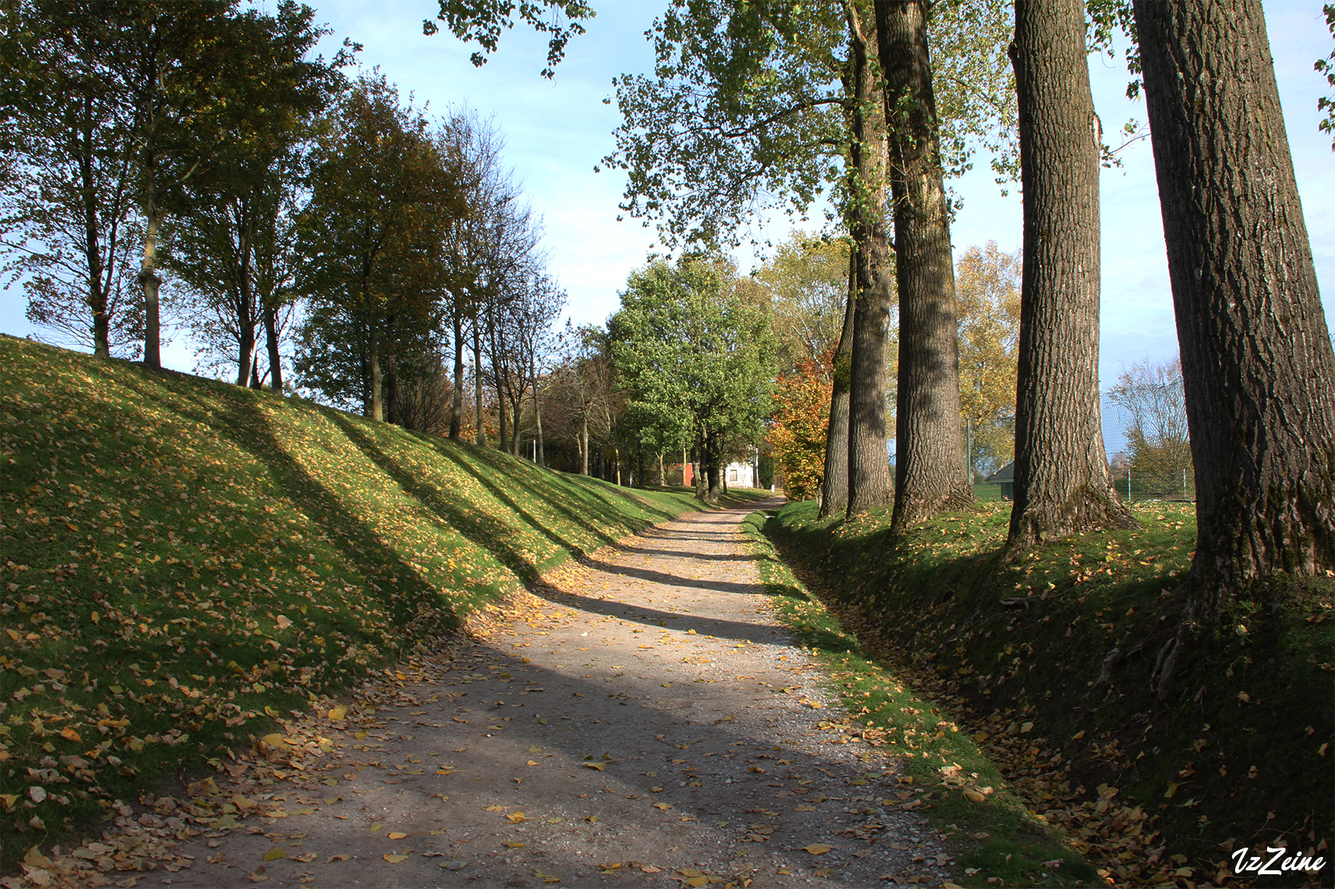
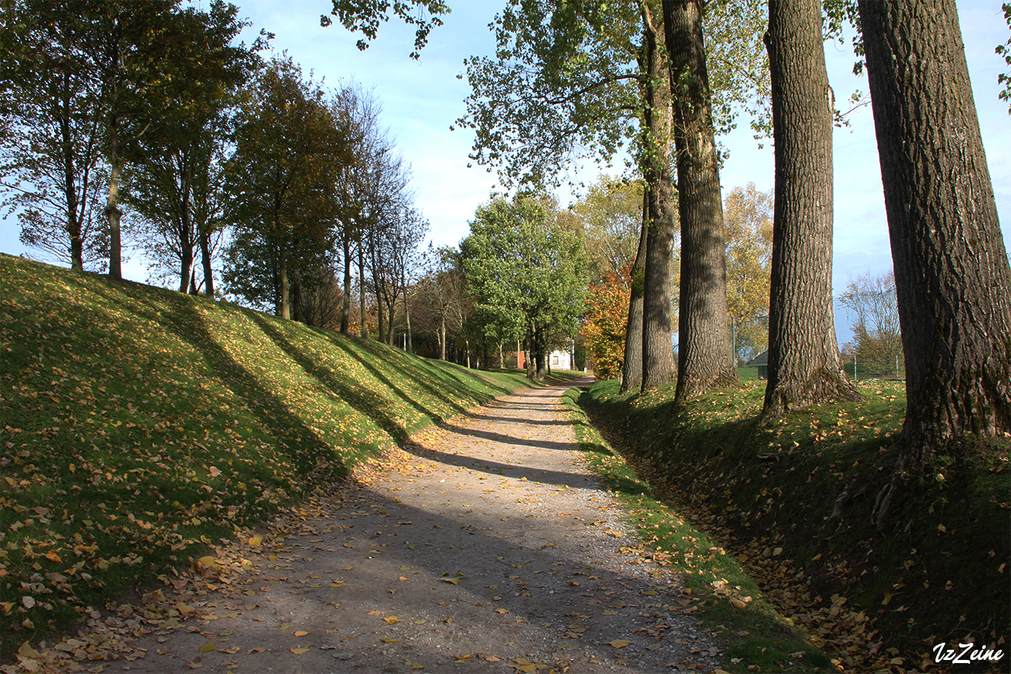
Amallys-MAJ-3.0.3
Ajout :
- Variables de couleurs dans le code CSS
- Photo de moi dans le section info

Correction :
- Faute dans l'annonce
- Photos trop lourdes (22Mo->15Mo)
- Grid section infos

Suppression :
- Dessins répétitifs

diff --git a/infos.html b/infos.html
@@ -38,7 +38,7 @@
           Ce site est encore en développement, il est donc susceptible d'être
           mis à jour régulièrement et d'avoir des bugs. Si vous remarquez
           quelconque problème (temps de chargement trop long, fonctionnalité
-          manquante, mauvais affichage, avis personnel, ect), vous pouvez aller
+          manquante, mauvais affichage, avis personnel, etc), vous pouvez aller
           dans l'onglet contact afin que je puisse y remédier. Merci de votre
           compréhension. Bonne visite!
         </p>
@@ -172,32 +172,39 @@
       />
     </div>
     <h1 class="Amallys__Nom">Informations</h1>
-    <section class="Section__Propos wrapper">
+    <section class="wrapper">
       <h2 id="Description" class="box1">Description</h2>
-      <div class="box2">
-        <p>
-          Je m'appelle Morgane Guerrero Fernandez, je suis étudiante à l'IAD
-          (Institut des Arts de Diffusion). J'ai commencé mon bachelier en
-          option multimédia en septembre 2019. Je suis actuellement en deuxième
-          année.
-        </p>
-        <p>Je propose ici mes services pour plusieurs types de travaux :</p>
-        <ul class="ListeDisc">
-          <li>Création de vos logos personnalisés et de bonne qualité</li>
-          <li>Vectorisation de vos logos déjà créés</li>
-          <li>Création de montage photos</li>
-          <li>Correction colorimétrique de photos</li>
-          <li>Création de courtes animations</li>
-          <li>Photographie (en apprentissage...)</li>
-        </ul>
-        <p>
-          Si vous voulez me joindre, vous pouvez vous rendre en bas de page où
-          vous trouverez mes informations.
-          <a href="#footer">(ou cliquez ici)</a>
-        </p>
+      <div class="box2 Section__Propos">
+        <img
+          class="Section__Propos-moi"
+          src="images/Moi/Moi.png"
+          alt="Photo de moi"
+        />
+        <div class="Section__Propos-text">
+          <p>
+            Je m'appelle Morgane Guerrero Fernandez, je suis étudiante à l'IAD
+            (Institut des Arts de Diffusion). J'ai commencé mon bachelier en
+            option multimédia en septembre 2019. Je suis actuellement en
+            deuxième année.
+          </p>
+          <p>Je propose ici mes services pour plusieurs types de travaux :</p>
+          <ul class="ListeDisc">
+            <li>Création de vos logos personnalisés et de bonne qualité</li>
+            <li>Vectorisation de vos logos déjà créés</li>
+            <li>Création de montage photos</li>
+            <li>Correction colorimétrique de photos</li>
+            <li>Création de courtes animations</li>
+            <li>Photographie (en apprentissage...)</li>
+          </ul>
+          <p>
+            Si vous voulez me joindre, vous pouvez vous rendre en bas de page où
+            vous trouverez mes informations.
+            <a href="#footer">(ou cliquez ici)</a>
+          </p>
+        </div>
       </div>
     </section>
-    <section class="Section__Propos wrapper">
+    <section class="wrapper">
       <h2 id="Parcours" class="box1">Parcours</h2>
       <div class="box2">
         <p>
@@ -281,8 +288,8 @@
         </ul>
       </div>
     </section>
-    <section class="Section__Propos wrapper"></section>
-    <section class="Section__Propos wrapper"></section>
+    <section class="wrapper"></section>
+    <section class="wrapper"></section>
     <!--FOOTER-->
     <footer id="footer">
       <div class="footer">

diff --git a/index.html b/index.html
@@ -38,7 +38,7 @@
           Ce site est encore en développement, il est donc susceptible d'être
           mis à jour régulièrement et d'avoir des bugs. Si vous remarquez
           quelconque problème (temps de chargement trop long, fonctionnalité
-          manquante, mauvais affichage, avis personnel, ect), vous pouvez aller
+          manquante, mauvais affichage, avis personnel, etc), vous pouvez aller
           dans l'onglet contact afin que je puisse y remédier. Merci de votre
           compréhension. Bonne visite!
         </p>
@@ -172,30 +172,36 @@
       />
     </div>
     <h1 class="Amallys__Nom">Amallys Creation</h1>
-    <section class="Section__Propos wrapper">
+    <section class="wrapper">
       <h2 id="Infos" class="box1">Infos</h2>
-      <div class="box2">
-        <p>
-          Je m'appelle Morgane Guerrero Fernandez, je suis étudiante à l'IAD
-          (Institut des Arts de Diffusion). J'ai commencé mon bachelier en
-          option multimédia en septembre 2019. Je suis actuellement en deuxième
-          année.
-        </p>
-        <p>Je propose ici mes services pour plusieurs types de travaux :</p>
-        <ul class="ListeDisc">
-          <li>Création de vos logos personnalisés et de bonne qualité</li>
-          <li>Vectorisation de vos logos déjà créés</li>
-          <li>Création de montage photos</li>
-          <li>Correction colorimétrique de photos</li>
-          <li>Création de courtes animations</li>
-          <li>Photographie (en apprentissage...)</li>
-        </ul>
-        <p>
-          Si vous voulez me joindre, vous pouvez vous rendre en bas de page où
-          vous trouverez mes informations.
-          <a href="#footer">(ou cliquez ici)</a>
-        </p>
-        <a class="EtPlus" href="infos.html">Et plus...</a>
+      <div class="box2 Section__Propos">
+        <img
+          class="Section__Propos-moi"
+          src="images/Moi/Moi.png"
+          alt="Photo de moi"
+        />
+        <div class="Section__Propos-text">
+          <p>
+            Je m'appelle Morgane Guerrero Fernandez, je suis étudiante à l'IAD
+            (Institut des Arts de Diffusion). J'ai commencé mon bachelier en
+            option multimédia en septembre 2019. Je suis actuellement en
+            deuxième année.
+          </p>
+          <p>Je propose ici mes services pour plusieurs types de travaux :</p>
+          <ul class="ListeDisc">
+            <li>Création de vos logos personnalisés et de bonne qualité</li>
+            <li>Vectorisation de vos logos déjà créés</li>
+            <li>Création de montage photos</li>
+            <li>Correction colorimétrique de photos</li>
+            <li>Création de courtes animations</li>
+            <li>Photographie (en apprentissage...)</li>
+          </ul>
+          <p>
+            Si vous voulez me joindre, vous pouvez vous rendre en bas de page où
+            vous trouverez mes informations.
+            <a href="#footer">(ou cliquez ici)</a>
+          </p>
+        </div>
       </div>
     </section>
     <section class="Section__Logos wrapper">

diff --git a/creations.html b/creations.html
@@ -38,7 +38,7 @@
           Ce site est encore en développement, il est donc susceptible d'être
           mis à jour régulièrement et d'avoir des bugs. Si vous remarquez
           quelconque problème (temps de chargement trop long, fonctionnalité
-          manquante, mauvais affichage, avis personnel, ect), vous pouvez aller
+          manquante, mauvais affichage, avis personnel, etc), vous pouvez aller
           dans l'onglet contact afin que je puisse y remédier. Merci de votre
           compréhension. Bonne visite!
         </p>
@@ -263,16 +263,13 @@
       <div class="box2">
         <ul class="Section__image--1-1">
           <li><img src="images/Dessins/Papiers/ChatTatoo.jpg" alt="" /></li>
-          <li><img src="images/Dessins/Papiers/CiseauxColle.jpg" alt="" /></li>
           <li><img src="images/Dessins/Papiers/CiseauxNoir.jpg" alt="" /></li>
-          <li><img src="images/Dessins/Papiers/CiseauxRouge.jpg" alt="" /></li>
           <li><img src="images/Dessins/Papiers/Couteau.jpg" alt="" /></li>
           <li><img src="images/Dessins/Papiers/Cranes.jpg" alt="" /></li>
+          <li><img src="images/Dessins/Papiers/CiseauxRouge.jpg" alt="" /></li>
           <li><img src="images/Dessins/Papiers/Femme.jpg" alt="" /></li>
           <li><img src="images/Dessins/Papiers/Muscles1.jpg" alt="" /></li>
-          <li><img src="images/Dessins/Papiers/Muscles2.jpg" alt="" /></li>
           <li><img src="images/Dessins/Papiers/RequinMur.jpg" alt="" /></li>
-          <li><img src="images/Dessins/Papiers/Tasse.jpg" alt="" /></li>
         </ul>
       </div>
     </section>

diff --git a/css/style.css b/css/style.css
@@ -3,10 +3,15 @@
 /*Ajouter les variables des couleurs utilisées dans le site*/
 
 :root {
+  /*couleurs du site*/
   --color-red: #ce414b;
   --color-blue: #000923;
   --color-White: #ffffff;
   --color-footer: #070b13;
+  /*couleurs des annonces*/
+  --color-important: #ef1111;
+  --color-moyen: #f7931e;
+  --color-bien: #009245;
 }
 
 /*------------------------------------------------------%Body%------------------------------------------------------*/
@@ -120,13 +125,13 @@ header {
 }
 
 .annonce--important {
-  border: solid red;
+  border: solid var(--color-important);
 }
 .annonce--moyen {
-  border: solid orange;
+  border: solid var(--color-moyen);
 }
 .annonce--bien {
-  border: solid green;
+  border: solid var(--color-bien);
 }
 
 .menu-checkbox--annonces {
@@ -144,8 +149,9 @@ header {
 .menu-toggle--annonces#true {
   opacity: 100;
 }
+/*changer la couleur du var en fonction de l'annonce*/
 .menu-toggle--annonces#false {
-  color: orange;
+  color: var(--color-moyen);
   opacity: 0;
 }
 
@@ -579,11 +585,9 @@ h4 {
 section p {
   padding: 10px 0;
 }
-
 section img {
   max-width: 100%;
 }
-
 @media all and (min-width: 1280px) {
   /*mettre un filtre gris sur les images de base*/
   section img {
@@ -595,6 +599,19 @@ section img {
     filter: grayscale(0%);
     transition-duration: 0.5s;
     transform: scale(1.03);
+  }
+}
+
+.Section__Propos {
+  display: grid;
+  grid-template-columns: 1fr;
+  align-items: center;
+  justify-items: center;
+  gap: 20px;
+}
+@media all and (min-width: 1280px) {
+  .Section__Propos {
+    grid-template-columns: 300px 1fr;
   }
 }
 

diff --git a/logos.html b/logos.html
@@ -38,7 +38,7 @@
           Ce site est encore en développement, il est donc susceptible d'être
           mis à jour régulièrement et d'avoir des bugs. Si vous remarquez
           quelconque problème (temps de chargement trop long, fonctionnalité
-          manquante, mauvais affichage, avis personnel, ect), vous pouvez aller
+          manquante, mauvais affichage, avis personnel, etc), vous pouvez aller
           dans l'onglet contact afin que je puisse y remédier. Merci de votre
           compréhension. Bonne visite!
         </p>

diff --git a/photos.html b/photos.html
@@ -38,7 +38,7 @@
           Ce site est encore en développement, il est donc susceptible d'être
           mis à jour régulièrement et d'avoir des bugs. Si vous remarquez
           quelconque problème (temps de chargement trop long, fonctionnalité
-          manquante, mauvais affichage, avis personnel, ect), vous pouvez aller
+          manquante, mauvais affichage, avis personnel, etc), vous pouvez aller
           dans l'onglet contact afin que je puisse y remédier. Merci de votre
           compréhension. Bonne visite!
         </p>
